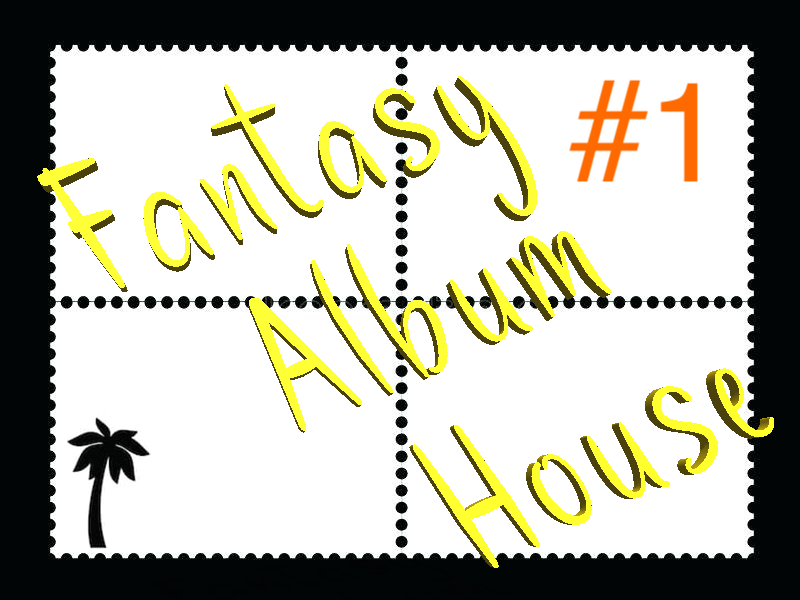
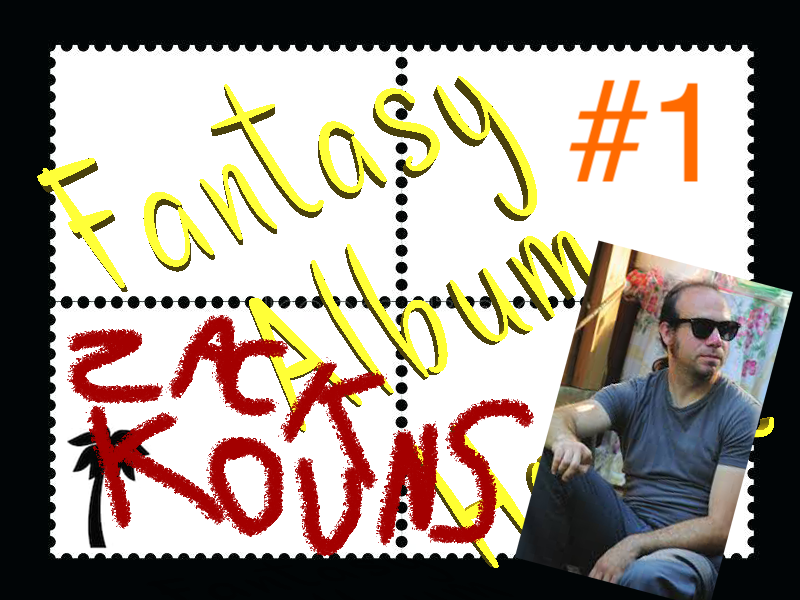
new

Changed region(s): [[0.0625, 0.39, 1.0, 1.0]]

diff --git a/src/njk/zackkouns.html b/src/njk/zackkouns.html
@@ -6,24 +6,19 @@
 {% block content %}
 <article class="container">
 
-<img src="assets/img/fantasy album house number one.png" width="574px"><img src="assets/img/kouns.jpg" width="264px">
-  <div class="row">
-    <div class="col-sm-1">
-    </div>
-    <div class="col-sm-10">
-      <h2>ZACK KOUNS</h2>
-    </div>
-  </div>
+F.A. <strong>HOUSE</strong> INVITES A MUSICIAN TO MAKE A <strong>FANTASY ALBUM</strong> ON THE SPOT
+<img src="assets/img/fantasy album house number one.png" width="574px">
 
-<iframe width="100%" height="120" src="https://www.mixcloud.com/widget/iframe/?hide_cover=1&feed=%2Ffantasyalbumhouse%2Ffantasy-album-house-1-zack-kouns%2F" frameborder="0" ></iframe>
+
 
 <p>
   <div class="row">
-    <div class="col-sm-3">
+    <div class="col-sm-2">
       
     </div>
     <div class="col-sm-7">
   
+<h3>ZACK KOUNS</h3>
 
 <p>Appalachian artist Zack Kouns is getting used to being accepted.</P>
 
@@ -37,23 +32,25 @@
 
 <p>When the duo records at Garrett’s home in Maysville, Kentucky, they aren’t alone. On one side, a neighbor constantly paces back and forth at an alarming rate between a door and a car. The other neighbor sits on a fence, chain smoking, occasionally nodding off, but mostly staring through the window and making intense eye contact the duo as they record.</p>
 
-<p>Kouns calls the latter neighbor a “professional botherer,” with more than a tinge of envy in his voice. “What a lucky duck. He’s on this earth to just to professionally bother people.”</p> 
+<p>Kouns calls the latter neighbor a “professional botherer,” with more than a tinge of envy in his voice. “What a lucky duck. He’s on this earth just to professionally bother people.”</p> 
 
-{# <p>Based in Ironton, Ohio, Kouns makes his living not through deranged honky-tonk music, but through wild plants. He teaches over 100 classes a year on herbs. Currently at work on an Appalachian fairy calendar and an Appalachian book for kids, Kouns splits his day mostly between research, gardening and walking around the woods. He also works closely with state parks, such as the Great Smoky Mountain National Park, and sells medicinal tinctures and flower essences.</p>  #}
+<p>Kouns makes his living not through deranged honky-tonk music but with wild plants. Currently at work on an Appalachian fairy calendar and an Appalachian book for kids, Kouns splits his day mostly between research, gardening and walking around the woods. He also sells medicinal tinctures and flower essences, and he teaches over 100 classes a year on herbs.</p> 
 
-<p>His recent solo musical performances range from space folk to gospel music, inspired by regular attendance at a Christian Anarchist church. In the past, Kouns has reworked Michael Jackson songs, made noise in a silo, performed esoteric rituals, played saxophone half-naked, strummed banjos, struck congas, meditated with a harmonium, recited poetry, etc.</p> 
+<p>His recent solo musical performances range from space folk to gospel music, the latter inspired by regular attendance at a Christian Anarchist church. In the past, Kouns has reworked Michael Jackson songs, made noise in a silo, performed esoteric rituals, played saxophone half-naked, strummed banjos, struck congas, meditated with a harmonium, recited poetry, spouted mouth wisdom, etc.</p> 
 
 <p>“It all comes from the same place. I just feel like this broken pitcher that’s constantly being poured into, gushing out on all sides at all times, and I’m desperately trying to get it to stay in and hardly any of it stays in at all,” he says.</p>
+
+<p>Listen to his fantasy album with commentary from Kouns while reading some of his thoughts on select tracks:
 
     </div>
   </div>
 
 
   <div class="row">
-    <div class="col-sm-2">
-      
+    <div class="col-sm-6">
+      INSERT MIX
     </div>
-    <div class="col-sm-8">
+    <div class="col-sm-6">
 <p>
 <strong>Zack Kouns'
 <br>Fantasy Album
@@ -70,6 +67,7 @@
 <br>Bruce Springsteen - "Hungry Heart"
 <br>Neil Young - "Philadelphia"
 <br>Kris Kristofferson - "They Killed Him"
+<br>Laura Clapp - "Helicon Live 2 Demo (excerpt)"
     </div>
   </div>
 
@@ -93,7 +91,7 @@
   </div>
   
   <div class="row">
-    <div class="col-sm-6">
+    <div class="col-sm-7">
       <p><strong>Eddie Noack - “Psycho”</strong></p>
  
       <p>There’s this one song that Scream Culture has. It’s called “I'm the Hungry Ghost Mama,” after this character I’ve been thinking about over and over again, this hungry ghost.</p> 
@@ -113,7 +111,7 @@
     <div class="col-sm-4">
       
     </div>
-    <div class="col-sm-6">
+    <div class="col-sm-7">
     
     <p><strong>Michael Jackson – “Human Nature”</strong>
 
@@ -143,7 +141,7 @@
     <div class="col-sm-2">
       
     </div>
-    <div class="col-sm-5">
+    <div class="col-sm-7">
 
       <p><strong>Taylor Swift – “Love Story”</strong></p>
 
@@ -166,7 +164,7 @@
     <div class="col-sm-1">
       
     </div>
-    <div class="col-sm-8">
+    <div class="col-sm-9">
 
       <p><strong>Jad Fair & Danielson – “Solid Gold Heart”</strong></p>
 
@@ -197,7 +195,7 @@
     <div class="col-sm-4">
     
     </div>
-    <div class="col-sm-4">
+    <div class="col-sm-6">
       
       <p><strong>Field Recording of Appalachian Birds</strong></p>
 
@@ -213,7 +211,7 @@
 
     </div>
     
-    <div class="col-sm-4">
+    <div class="col-sm-6">
       <p><strong>Leonard Cohen – “You Want It Darker”</strong></p>
 
       <p>You want it darker? I love that sentiment. That sums it up for me.</p>

diff --git a/docs/zackkouns.html b/docs/zackkouns.html
@@ -28,24 +28,19 @@
   
 <article class="container">
 
-<img src="assets/img/fantasy album house number one.png" width="574px"><img src="assets/img/kouns.jpg" width="264px">
-  <div class="row">
-    <div class="col-sm-1">
-    </div>
-    <div class="col-sm-10">
-      <h2>ZACK KOUNS</h2>
-    </div>
-  </div>
+F.A. <strong>HOUSE</strong> INVITES A MUSICIAN TO MAKE A <strong>FANTASY ALBUM</strong> ON THE SPOT
+<img src="assets/img/fantasy album house number one.png" width="574px">
 
-<iframe width="100%" height="120" src="https://www.mixcloud.com/widget/iframe/?hide_cover=1&feed=%2Ffantasyalbumhouse%2Ffantasy-album-house-1-zack-kouns%2F" frameborder="0" ></iframe>
+
 
 <p>
   <div class="row">
-    <div class="col-sm-3">
+    <div class="col-sm-2">
       
     </div>
     <div class="col-sm-7">
   
+<h3>ZACK KOUNS</h3>
 
 <p>Appalachian artist Zack Kouns is getting used to being accepted.</P>
 
@@ -59,23 +54,25 @@
 
 <p>When the duo records at Garrett’s home in Maysville, Kentucky, they aren’t alone. On one side, a neighbor constantly paces back and forth at an alarming rate between a door and a car. The other neighbor sits on a fence, chain smoking, occasionally nodding off, but mostly staring through the window and making intense eye contact the duo as they record.</p>
 
-<p>Kouns calls the latter neighbor a “professional botherer,” with more than a tinge of envy in his voice. “What a lucky duck. He’s on this earth to just to professionally bother people.”</p> 
+<p>Kouns calls the latter neighbor a “professional botherer,” with more than a tinge of envy in his voice. “What a lucky duck. He’s on this earth just to professionally bother people.”</p> 
 
+<p>Kouns makes his living not through deranged honky-tonk music but with wild plants. Currently at work on an Appalachian fairy calendar and an Appalachian book for kids, Kouns splits his day mostly between research, gardening and walking around the woods. He also sells medicinal tinctures and flower essences, and he teaches over 100 classes a year on herbs.</p> 
 
-
-<p>His recent solo musical performances range from space folk to gospel music, inspired by regular attendance at a Christian Anarchist church. In the past, Kouns has reworked Michael Jackson songs, made noise in a silo, performed esoteric rituals, played saxophone half-naked, strummed banjos, struck congas, meditated with a harmonium, recited poetry, etc.</p> 
+<p>His recent solo musical performances range from space folk to gospel music, the latter inspired by regular attendance at a Christian Anarchist church. In the past, Kouns has reworked Michael Jackson songs, made noise in a silo, performed esoteric rituals, played saxophone half-naked, strummed banjos, struck congas, meditated with a harmonium, recited poetry, spouted mouth wisdom, etc.</p> 
 
 <p>“It all comes from the same place. I just feel like this broken pitcher that’s constantly being poured into, gushing out on all sides at all times, and I’m desperately trying to get it to stay in and hardly any of it stays in at all,” he says.</p>
+
+<p>Listen to his fantasy album with commentary from Kouns while reading some of his thoughts on select tracks:
 
     </div>
   </div>
 
 
   <div class="row">
-    <div class="col-sm-2">
-      
+    <div class="col-sm-6">
+      INSERT MIX
     </div>
-    <div class="col-sm-8">
+    <div class="col-sm-6">
 <p>
 <strong>Zack Kouns'
 <br>Fantasy Album
@@ -92,6 +89,7 @@
 <br>Bruce Springsteen - "Hungry Heart"
 <br>Neil Young - "Philadelphia"
 <br>Kris Kristofferson - "They Killed Him"
+<br>Laura Clapp - "Helicon Live 2 Demo (excerpt)"
     </div>
   </div>
 
@@ -115,7 +113,7 @@
   </div>
   
   <div class="row">
-    <div class="col-sm-6">
+    <div class="col-sm-7">
       <p><strong>Eddie Noack - “Psycho”</strong></p>
  
       <p>There’s this one song that Scream Culture has. It’s called “I'm the Hungry Ghost Mama,” after this character I’ve been thinking about over and over again, this hungry ghost.</p> 
@@ -135,7 +133,7 @@
     <div class="col-sm-4">
       
     </div>
-    <div class="col-sm-6">
+    <div class="col-sm-7">
     
     <p><strong>Michael Jackson – “Human Nature”</strong>
 
@@ -165,7 +163,7 @@
     <div class="col-sm-2">
       
     </div>
-    <div class="col-sm-5">
+    <div class="col-sm-7">
 
       <p><strong>Taylor Swift – “Love Story”</strong></p>
 
@@ -188,7 +186,7 @@
     <div class="col-sm-1">
       
     </div>
-    <div class="col-sm-8">
+    <div class="col-sm-9">
 
       <p><strong>Jad Fair & Danielson – “Solid Gold Heart”</strong></p>
 
@@ -219,7 +217,7 @@
     <div class="col-sm-4">
     
     </div>
-    <div class="col-sm-4">
+    <div class="col-sm-6">
       
       <p><strong>Field Recording of Appalachian Birds</strong></p>
 
@@ -235,7 +233,7 @@
 
     </div>
     
-    <div class="col-sm-4">
+    <div class="col-sm-6">
       <p><strong>Leonard Cohen – “You Want It Darker”</strong></p>
 
       <p>You want it darker? I love that sentiment. That sums it up for me.</p>

diff --git a/docs/2014.html b/docs/2014.html
@@ -43,16 +43,7 @@
       </div>
     </div>
 
-    <div class="col-lg-3 col-sm-4 mb-4"> 
-      <div class="card-deck">
-        <div class="card" style="width: 14rem;">
-        <img class="card-img-top" src="assets/img/zackrickxmas.jpg" alt="Zack Kouns and Rick Weaver go caroling on Christmas. December 25, 2014">
-        <div class="overlay embed-responsive">
-        <iframe class="embed-responsive-item" src="https://bandcamp.com/EmbeddedPlayer/album=1903605667/size=large/bgcol=ffffff/linkcol=0687f5/artwork=none/transparent=true/" seamless><a href="http://zackkounsandrickweaver.bandcamp.com/album/far-as-the-curse-is-found-celebrating-the-christmas-spirit-with-zack-kouns-and-rick-weaver">Far as the Curse is Found: Celebrating the Christmas Spirit with Zack Kouns and Rick Weaver by Zack Kouns &amp; Rick Weaver</a></iframe>
-        </div>
-        </div>
-      </div>
-    </div>
+    
 
     <div class="col-lg-3 col-sm-4 mb-4"> 
       <div class="card-deck">
@@ -99,16 +90,6 @@
       </div>
     </div>
 
-    <div class="col-lg-3 col-sm-4 mb-4"> 
-      <div class="card-deck">
-        <div class="card" style="width: 14rem;">
-        <img class="card-img-top" src="assets/img/sonic youth boys banana ham.jpg" alt="The Sonic Youth Boys play Banana Ham for AX and BLADE inc. on April 4, 2014">
-        <div class="overlay embed-responsive">
-        <iframe class="embed-responsive-item" src="https://bandcamp.com/EmbeddedPlayer/album=4140535322/size=large/bgcol=ffffff/linkcol=0687f5/artwork=none/transparent=true/" seamless><a href="http://humanconduct.bandcamp.com/album/banana-ham">Banana Ham by The Sonic Youth Boys</a></iframe>
-        </div>
-        </div>
-      </div>
-    </div>
 
     <div class="col-lg-3 col-sm-4 mb-4"> 
       <div class="card-deck">

diff --git a/src/njk/2014.html b/src/njk/2014.html
@@ -20,7 +20,7 @@
       </div>
     </div>
 
-    <div class="col-lg-3 col-sm-4 mb-4"> 
+    {# <div class="col-lg-3 col-sm-4 mb-4"> 
       <div class="card-deck">
         <div class="card" style="width: 14rem;">
         <img class="card-img-top" src="assets/img/zackrickxmas.jpg" alt="Zack Kouns and Rick Weaver go caroling on Christmas. December 25, 2014">
@@ -29,7 +29,7 @@
         </div>
         </div>
       </div>
-    </div>
+    </div> #}
 
     <div class="col-lg-3 col-sm-4 mb-4"> 
       <div class="card-deck">
@@ -75,7 +75,7 @@
         </div>
       </div>
     </div>
-
+{# 
     <div class="col-lg-3 col-sm-4 mb-4"> 
       <div class="card-deck">
         <div class="card" style="width: 14rem;">
@@ -85,7 +85,7 @@
         </div>
         </div>
       </div>
-    </div>
+    </div> #}
 
     <div class="col-lg-3 col-sm-4 mb-4"> 
       <div class="card-deck">
